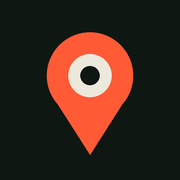
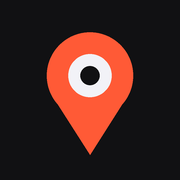
Appli : plus de vert, même carte en mode clair et sombre
- Palette neutre (gris façon iOS) à la place des teintes vertes ;
  pastilles football en jaune ; icônes régénérées sur fond gris anthracite.
- La carte garde le même rendu clair quel que soit le mode
  (suppression des variantes sombres et du filtre d'assombrissement).

Claude-Session: https://claude.ai/code/session_01Hfw2cUWKMXq7TmYxR51CgD

Changed region(s): [[0.3611, 0.3056, 0.6389, 0.5556]]

diff --git a/app/src/components/MatchMap.tsx b/app/src/components/MatchMap.tsx
@@ -22,7 +22,6 @@ const clusterIcon = (cluster: L.MarkerCluster) => {
 
 interface Props {
   t: Theme;
-  dark: boolean;
   events: MatchEvent[];
   center: Place;
   selectedId: string | null;
@@ -33,13 +32,12 @@ interface Props {
   height?: number;
 }
 
-export function MatchMap({ t, dark, events, center, selectedId, onSelect, fitKey, styleId, onStyleChange, height = 340 }: Props) {
+export function MatchMap({ t, events, center, selectedId, onSelect, fitKey, styleId, onStyleChange, height = 340 }: Props) {
   const elRef = useRef<HTMLDivElement>(null);
   const mapRef = useRef<L.Map | null>(null);
   const baseRef = useRef<L.Layer | null>(null);
   const [showStyles, setShowStyles] = useState(false);
   const style = mapStyleById(styleId);
-  const filtered = dark && !!style.darkFilter;
   const clusterRef = useRef<L.MarkerClusterGroup | null>(null);
   const meRef = useRef<L.Marker | null>(null);
   const markersRef = useRef(new Map<string, { marker: L.Marker; event: MatchEvent }>());
@@ -62,7 +60,7 @@ export function MatchMap({ t, dark, events, center, selectedId, onSelect, fitKey
   useEffect(() => {
     const map = mapRef.current!;
     let cancelled = false;
-    const url = dark ? style.dark : style.light;
+    const url = style.url;
     const setBase = (layer: L.Layer) => {
       if (cancelled) return;
       baseRef.current?.remove();
@@ -81,10 +79,10 @@ export function MatchMap({ t, dark, events, center, selectedId, onSelect, fitKey
           maplibre.setWorkerUrl(worker.default);
           setBase(plugin.maplibreGL({ style: url }));
         })
-        .catch(() => setBase(L.tileLayer(mapStyleById('classique').light, { attribution: style.attribution, maxZoom: 19 })));
+        .catch(() => setBase(L.tileLayer(mapStyleById('classique').url, { attribution: style.attribution, maxZoom: 19 })));
     }
     return () => { cancelled = true; };
-  }, [style, dark]);
+  }, [style]);
 
   // Marqueurs des matchs
   useEffect(() => {
@@ -135,7 +133,7 @@ export function MatchMap({ t, dark, events, center, selectedId, onSelect, fitKey
   const btn = 'flex h-9 w-9 items-center justify-center rounded-lg border shadow-sm';
   const btnStyle = { background: t.sheet, borderColor: t.chipBorder, color: t.text };
   return (
-    <div className={`relative w-full overflow-hidden rounded-xl border${filtered ? ' mlm-dark-map' : ''}`} style={{ height, borderColor: t.border,
+    <div className="relative w-full overflow-hidden rounded-xl border" style={{ height, borderColor: t.border,
       ['--map-bg' as string]: t.inputBg, ['--pin-border' as string]: t.sheet, ['--pin-selected' as string]: t.text,
       ['--cluster-bg' as string]: t.flare, ['--cluster-text' as string]: '#FFFFFF', ['--cluster-ring' as string]: t.flare + '55' }}>
       <div ref={elRef} className="absolute inset-0" />

diff --git a/app/src/mapStyles.ts b/app/src/mapStyles.ts
@@ -1,12 +1,11 @@
 // Styles de carte proposés, tous gratuits et sans clé.
 // « vector » = carte vectorielle (OpenFreeMap, rendu net façon Plans) ; « raster » = images.
+// La carte garde le même rendu clair en mode sombre et en mode clair.
 export interface MapStyle {
   id: string;
   label: string;
   kind: 'vector' | 'raster';
-  light: string;
-  dark: string;
-  darkFilter?: boolean; // raster sans version sombre : on l'assombrit par filtre CSS
+  url: string;
   attribution: string;
 }
 
@@ -14,11 +13,11 @@ const OSM = '&copy; <a href="https://www.openstreetmap.org/copyright">OpenStreet
 const OFM = `<a href="https://openfreemap.org">OpenFreeMap</a> ${OSM}`;
 
 export const MAP_STYLES: MapStyle[] = [
-  { id: 'plans', label: 'Plans', kind: 'vector', light: 'https://tiles.openfreemap.org/styles/liberty', dark: 'https://tiles.openfreemap.org/styles/dark', attribution: OFM },
-  { id: 'epure', label: 'Épuré', kind: 'vector', light: 'https://tiles.openfreemap.org/styles/positron', dark: 'https://tiles.openfreemap.org/styles/fiord', attribution: OFM },
-  { id: 'vif', label: 'Vif', kind: 'vector', light: 'https://tiles.openfreemap.org/styles/bright', dark: 'https://tiles.openfreemap.org/styles/dark', attribution: OFM },
-  { id: 'osmfr', label: 'OSM France', kind: 'raster', light: 'https://{s}.tile.openstreetmap.fr/osmfr/{z}/{x}/{y}.png', dark: 'https://{s}.tile.openstreetmap.fr/osmfr/{z}/{x}/{y}.png', darkFilter: true, attribution: `${OSM} France` },
-  { id: 'classique', label: 'Classique', kind: 'raster', light: 'https://tile.openstreetmap.org/{z}/{x}/{y}.png', dark: 'https://tile.openstreetmap.org/{z}/{x}/{y}.png', darkFilter: true, attribution: OSM },
+  { id: 'plans', label: 'Plans', kind: 'vector', url: 'https://tiles.openfreemap.org/styles/liberty', attribution: OFM },
+  { id: 'epure', label: 'Épuré', kind: 'vector', url: 'https://tiles.openfreemap.org/styles/positron', attribution: OFM },
+  { id: 'vif', label: 'Vif', kind: 'vector', url: 'https://tiles.openfreemap.org/styles/bright', attribution: OFM },
+  { id: 'osmfr', label: 'OSM France', kind: 'raster', url: 'https://{s}.tile.openstreetmap.fr/osmfr/{z}/{x}/{y}.png', attribution: `${OSM} France` },
+  { id: 'classique', label: 'Classique', kind: 'raster', url: 'https://tile.openstreetmap.org/{z}/{x}/{y}.png', attribution: OSM },
 ];
 export const DEFAULT_MAP_STYLE = 'plans';
 export const mapStyleById = (id: string) => MAP_STYLES.find(s => s.id === id) || MAP_STYLES[0];

diff --git a/app/src/theme.ts b/app/src/theme.ts
@@ -1,17 +1,17 @@
 export const THEMES = {
-  dark: { bg: '#0E1712', card: '#16281C', border: '#26382C', text: '#EDE8DC', textSoft: '#8FA394', textMute: '#4E6455', chipBorder: '#3A5240', chipActiveBg: '#EDE8DC', chipActiveText: '#0E1712', flare: '#FF5A36', gold: '#F4B740', dashed: '#3A5240', overlay: 'rgba(6,10,7,0.72)', sheet: '#16281C', inputBg: '#1B2E20' },
-  light: { bg: '#F6F4EE', card: '#FFFFFF', border: '#E4DFD1', text: '#1A281C', textSoft: '#5B6B5C', textMute: '#9AA394', chipBorder: '#DAD4C4', chipActiveBg: '#1A281C', chipActiveText: '#F6F4EE', flare: '#D9481F', gold: '#B4790F', dashed: '#DAD4C4', overlay: 'rgba(30,30,20,0.45)', sheet: '#FFFFFF', inputBg: '#F0EDE2' },
+  dark: { bg: '#111113', card: '#1C1C1E', border: '#2C2C2E', text: '#F2F2F7', textSoft: '#AEAEB2', textMute: '#6E6E73', chipBorder: '#3A3A3C', chipActiveBg: '#F2F2F7', chipActiveText: '#111113', flare: '#FF5A36', gold: '#F4B740', dashed: '#3A3A3C', overlay: 'rgba(0,0,0,0.6)', sheet: '#1C1C1E', inputBg: '#2C2C2E' },
+  light: { bg: '#F5F5F7', card: '#FFFFFF', border: '#E5E5EA', text: '#1C1C1E', textSoft: '#636366', textMute: '#8E8E93', chipBorder: '#D1D1D6', chipActiveBg: '#1C1C1E', chipActiveText: '#F5F5F7', flare: '#D9481F', gold: '#B4790F', dashed: '#D1D1D6', overlay: 'rgba(0,0,0,0.4)', sheet: '#FFFFFF', inputBg: '#EDEDF0' },
 };
 export type Theme = typeof THEMES.dark;
 
 export const SPORTS = [
   { id: 'tous', label: 'Tous' },
-  { id: 'football', label: 'Football', color: '#3FA34D' },
+  { id: 'football', label: 'Football', color: '#F4B740' },
   { id: 'rugby', label: 'Rugby', color: '#C97B2E' },
   { id: 'handball', label: 'Handball', color: '#3A7CA5' },
-  { id: 'basket', label: 'Basket', color: '#E0A93A' },
+  { id: 'basket', label: 'Basket', color: '#A78BFA' },
 ];
-export const sportColor = (s: string) => SPORTS.find(x => x.id === s)?.color || '#EDE8DC';
+export const sportColor = (s: string) => SPORTS.find(x => x.id === s)?.color || '#F2F2F7';
 export const sportInitial = (s: string) => ({ football: 'F', rugby: 'R', handball: 'H', basket: 'B' } as Record<string, string>)[s] || '?';
 export const PRICING: Record<string, number[]> = { football: [8, 5, 3], rugby: [15, 10, 6], handball: [6, 4, 2], basket: [12, 8, 5] };
 

diff --git a/app/src/index.css b/app/src/index.css
@@ -2,22 +2,19 @@
 @tailwind components;
 @tailwind utilities;
 
-html, body { margin: 0; padding: 0; overscroll-behavior: none; background: var(--bg, #0E1712); }
+html, body { margin: 0; padding: 0; overscroll-behavior: none; background: var(--bg, #111113); }
 .font-display { font-family: 'Bebas Neue', sans-serif; letter-spacing: 0.03em; }
 .font-body { font-family: 'Inter', system-ui, sans-serif; }
 .no-scrollbar::-webkit-scrollbar { display: none; }
 .no-scrollbar { -ms-overflow-style: none; scrollbar-width: none; }
-#fallback { font-family: sans-serif; color: #EDE8DC; background: #0E1712; padding: 24px; text-align: center; }
+#fallback { font-family: sans-serif; color: #F2F2F7; background: #111113; padding: 24px; text-align: center; }
 
 /* Carte Leaflet : marqueurs et regroupements aux couleurs de l'appli */
 .leaflet-container { font-family: 'Inter', system-ui, sans-serif; background: var(--map-bg); }
 .mlm-pin { display: flex; align-items: center; justify-content: center; border-radius: 9999px; border: 2px solid var(--pin-border);
-  font-family: 'Bebas Neue', sans-serif; font-size: 12px; color: #0E1712; box-shadow: 0 1px 4px rgba(0,0,0,.35); transition: transform .15s; }
+  font-family: 'Bebas Neue', sans-serif; font-size: 12px; color: #111113; box-shadow: 0 1px 4px rgba(0,0,0,.35); transition: transform .15s; }
 .mlm-pin.is-selected { transform: scale(1.35); border-color: var(--pin-selected); }
 .mlm-cluster { display: flex; align-items: center; justify-content: center; border-radius: 9999px; background: var(--cluster-bg);
   color: var(--cluster-text); font-weight: 700; font-size: 12px; border: 3px solid var(--cluster-ring); box-shadow: 0 1px 6px rgba(0,0,0,.35); }
 .mlm-me { width: 16px; height: 16px; border-radius: 9999px; background: #2F80ED; border: 3px solid #fff; box-shadow: 0 0 0 6px rgba(47,128,237,.25); }
 .leaflet-control-attribution { font-size: 9px !important; }
-.mlm-dark-map .leaflet-tile-pane { filter: invert(1) hue-rotate(180deg) brightness(0.85) contrast(0.9) saturate(0.6); }
-.mlm-dark-map .leaflet-control-attribution { background: rgba(22,40,28,.8) !important; color: #8FA394; }
-.mlm-dark-map .leaflet-control-attribution a { color: #EDE8DC; }

diff --git a/app/src/components/EventCard.tsx b/app/src/components/EventCard.tsx
@@ -15,7 +15,7 @@ export const EventCard = forwardRef<HTMLDivElement, Props>(function EventCard({ 
       <div className="flex">
         <div className="flex w-16 shrink-0 flex-col items-center justify-center gap-1 border-r border-dashed"
           style={{ background: sportColor(e.sport) + '1A', borderColor: t.dashed }}>
-          <span className="font-display flex h-9 w-9 items-center justify-center rounded-full text-sm" style={{ background: sportColor(e.sport), color: '#0E1712' }}>
+          <span className="font-display flex h-9 w-9 items-center justify-center rounded-full text-sm" style={{ background: sportColor(e.sport), color: '#111113' }}>
             {sportInitial(e.sport)}
           </span>
           <span className="text-[9px] font-semibold" style={{ color: t.textSoft }}>{e.distanceKm} km</span>

diff --git a/app/index.html b/app/index.html
@@ -7,8 +7,8 @@
   <meta name="mobile-web-app-capable" content="yes" />
   <meta name="apple-mobile-web-app-status-bar-style" content="black-translucent" />
   <meta name="apple-mobile-web-app-title" content="MyLocalMatch" />
-  <meta name="theme-color" content="#0E1712" media="(prefers-color-scheme: dark)" />
-  <meta name="theme-color" content="#F6F4EE" media="(prefers-color-scheme: light)" />
+  <meta name="theme-color" content="#111113" media="(prefers-color-scheme: dark)" />
+  <meta name="theme-color" content="#F5F5F7" media="(prefers-color-scheme: light)" />
   <meta name="description" content="Les matchs de football amateur près de chez vous en Auvergne-Rhône-Alpes." />
   <link rel="apple-touch-icon" href="./apple-touch-icon.png" />
   <link rel="icon" type="image/png" href="./icon-192.png" />

diff --git a/app/src/App.tsx b/app/src/App.tsx
@@ -208,7 +208,7 @@ export default function App() {
       </header>
 
       <section className="px-4 pb-2 pt-4">
-        <MatchMap t={t} dark={isDark} events={filtered} center={place} selectedId={selected} onSelect={selectEvent} fitKey={club}
+        <MatchMap t={t} events={filtered} center={place} selectedId={selected} onSelect={selectEvent} fitKey={club}
           styleId={mapStyle} onStyleChange={id => { setMapStyle(id); savePref('mapStyle', id); }} />
         <p className="mt-3 text-center text-[11px]" style={{ color: t.textMute }}>
           {count} match{count > 1 ? 's' : ''} à venir{club ? ` pour ${club}` : ''} · touche un point pour voir le match
